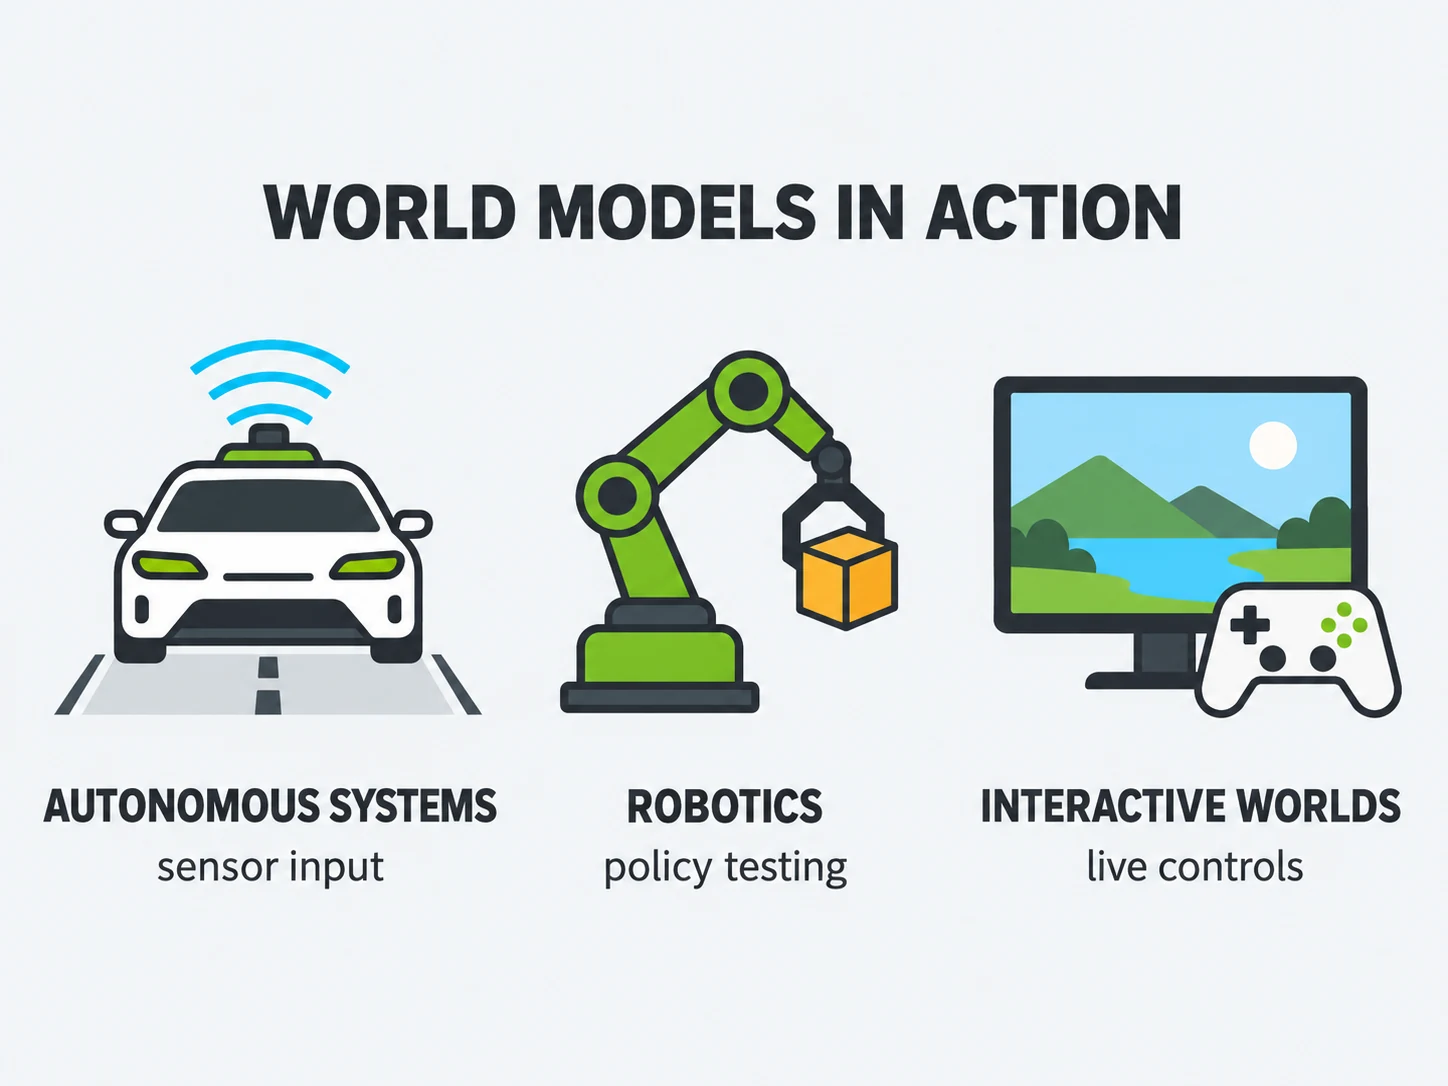
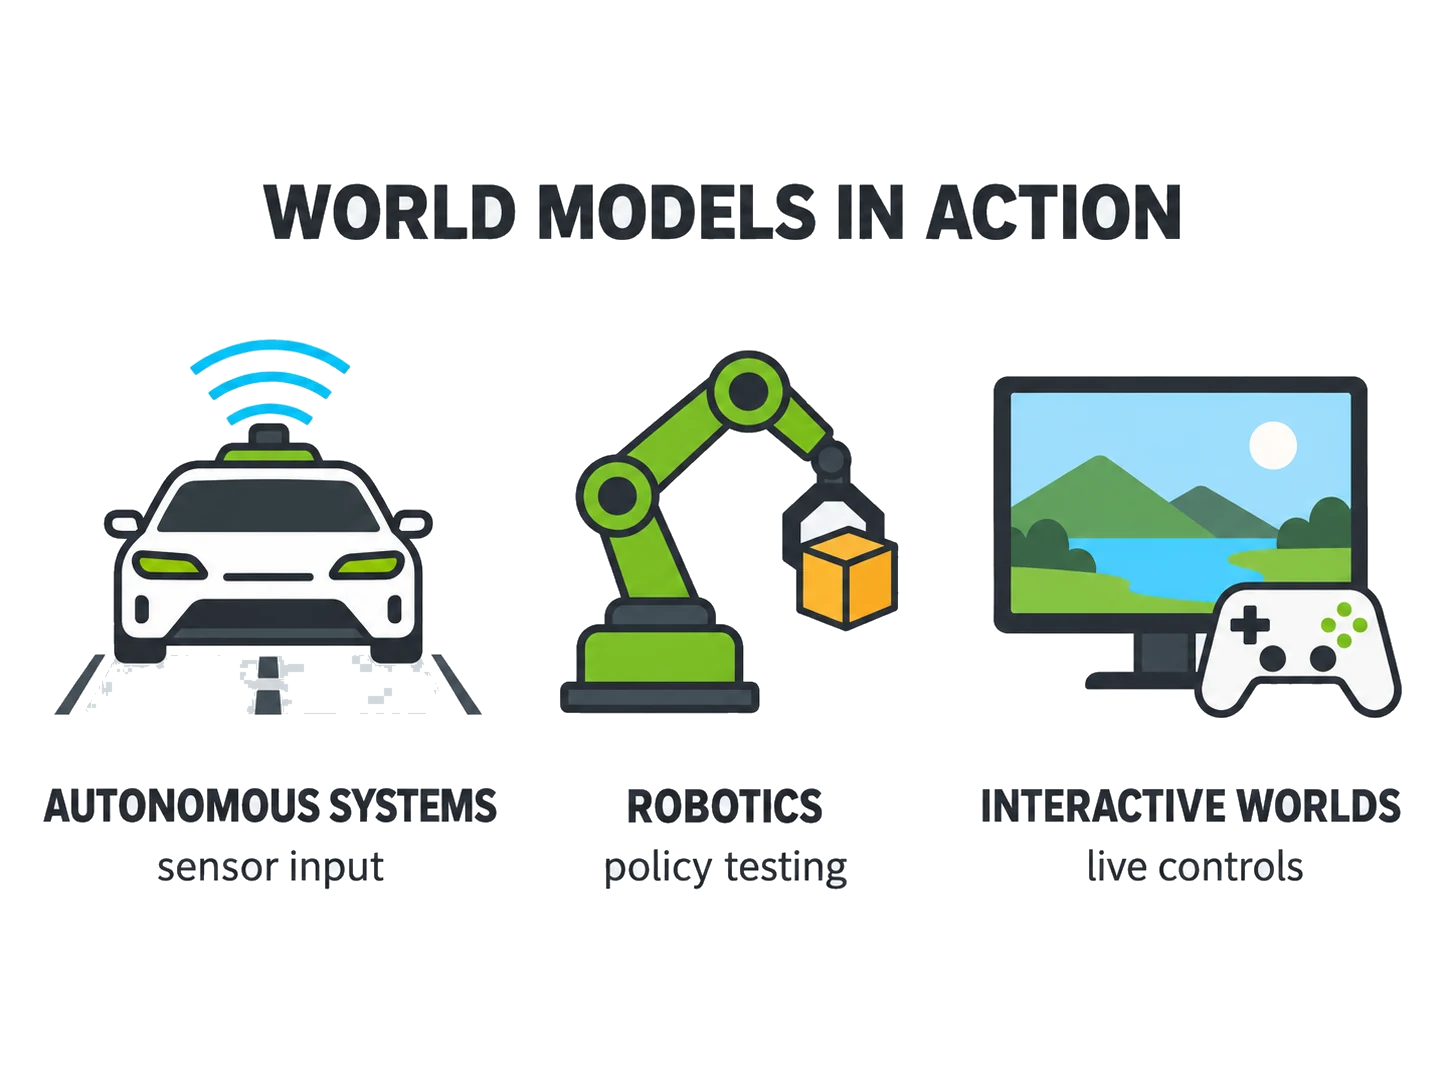
clean up dark mode a bit

Changed region(s): [[0.0622, 0.5773, 0.3108, 0.6685]]

diff --git a/docs/source/stylesheets/custom.css b/docs/source/stylesheets/custom.css
@@ -396,6 +396,11 @@
   margin: 1rem auto 2.5rem;
 }
 
+[data-md-color-scheme="slate"] .md-typeset .fd-why-comparison,
+[data-md-color-scheme="slate"] .md-typeset .fd-why-supporting-image {
+  filter: invert(1) hue-rotate(180deg);
+}
+
 .fd-why-row {
   display: grid;
   grid-template-columns: minmax(0, 1fr) minmax(16rem, 24rem);
